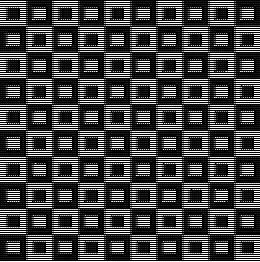
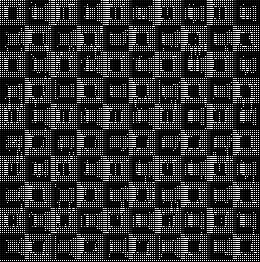
fix  a few glitches in dc transform module

diff --git a/h264/updates/dctransform/cocotb/testbench.py b/h264/updates/dctransform/cocotb/testbench.py
@@ -22,8 +22,8 @@ async def reset_sequence(dut):
     dut.RESET.value = 1
     await Timer(10, units='ns')
 
-# Reverse Zigzag Order Mapping for a 4x4 matrix
-REVERSE_ZIGZAG_ORDER = [(1,1),(1,0),(0,1),(0,0)]
+# Order Mapping for a 4x4 matrix
+ORDER = [(0,0),(0,1),(1,0),(1,1)]
 
 def image_to_grayscale_pixels(image_path):
     img = Image.open(image_path).convert('L')  # Convert image to grayscale
@@ -71,10 +71,9 @@ async def test_dc_transform(dut):
             dut.READYO.value = 0
 
             # Send the pixel block to the DUT
-            for i in range(2):
+            for i in range(4):
                 xxin = (
-                    (pixel_block[i*2 + 1] & 0xFF) << 8 |
-                    (pixel_block[i*2] & 0xFF)
+                    (pixel_block[i] & 0xFF)
                 )
                 #print("Waiting for READYI")
                 while not dut.READYI.value:
@@ -82,12 +81,10 @@ async def test_dc_transform(dut):
                     await RisingEdge(dut.CLK)
                 #print("READYI DETECTED")
 
-                for idx in range(2):
-                    input_pixel_array[row + i, col + idx] = pixel_block[i*2 + idx]
+                input_pixel_array[row + (i >= 2), col + (i % 2)] = pixel_block[i]
 
                 dut.ENABLE.value = 1
                 dut.XXIN.value = xxin
-                await RisingEdge(dut.CLK)
                 await RisingEdge(dut.CLK)
             
             dut.ENABLE.value = 0
@@ -103,8 +100,8 @@ async def test_dc_transform(dut):
             for i in range(2):
                 output_pixel = int(dut.YYOUT.value)  # Ensure you get the output as an integer
                 
-                # Write output pixels to the array based on REVERSE_ZIGZAG_ORDER
-                output_pixel_array[row + REVERSE_ZIGZAG_ORDER[i][0], col + REVERSE_ZIGZAG_ORDER[i][1]] = output_pixel
+                # Write output pixels to the array based on ORDER
+                output_pixel_array[row + ORDER[i][0], col + ORDER[i][1]] = output_pixel
                 
                 await RisingEdge(dut.CLK)
 
@@ -360,9 +357,9 @@ async def test_dc_transform(dut):
             # for i in range(2):
                 # output_pixel = [dut.YNOUT.value]
 # 
-                # Write output pixels to the array based on REVERSE_ZIGZAG_ORDER
+                # Write output pixels to the array based on ORDER
                 # for k in range(2):
-                    # output_pixel_array[row + REVERSE_ZIGZAG_ORDER[i][0], col + REVERSE_ZIGZAG_ORDER[i][1]] = output_pixel[k]
+                    # output_pixel_array[row + ORDER[i][0], col + ORDER[i][1]] = output_pixel[k]
                 # 
                 # await RisingEdge(dut.CLK)
 # 
@@ -491,7 +488,7 @@ async def test_dc_transform(dut):
 #     dut.RESET.value = 1
 
 # # Reverse Zigzag Order Mapping for a 4x4 matrix
-# REVERSE_ZIGZAG_ORDER = [(3,3),(3,2),(2,3),(1,3),(2,2),(3,1),(3,0),(2,1),(1,2),(0,3),(0,2),(1,1),(2,0),(1,0),(0,1),(0,0)]
+# ORDER = [(3,3),(3,2),(2,3),(1,3),(2,2),(3,1),(3,0),(2,1),(1,2),(0,3),(0,2),(1,1),(2,0),(1,0),(0,1),(0,0)]
 
 # def image_to_grayscale_pixels(image_path):
 #     img = Image.open(image_path).convert('L')  # Convert image to grayscale
@@ -565,7 +562,7 @@ async def test_dc_transform(dut):
             
 #             for i in range(16):
 #                 output_pixel = int(dut.YNOUT.value)
-#                 output_pixel_array[row + REVERSE_ZIGZAG_ORDER[i][0], col + REVERSE_ZIGZAG_ORDER[i][1]] = output_pixel
+#                 output_pixel_array[row + ORDER[i][0], col + ORDER[i][1]] = output_pixel
 #                 await RisingEdge(dut.CLK)
 
 #         print(f"Successfully processed Row #{row} to #{row + 4}")
